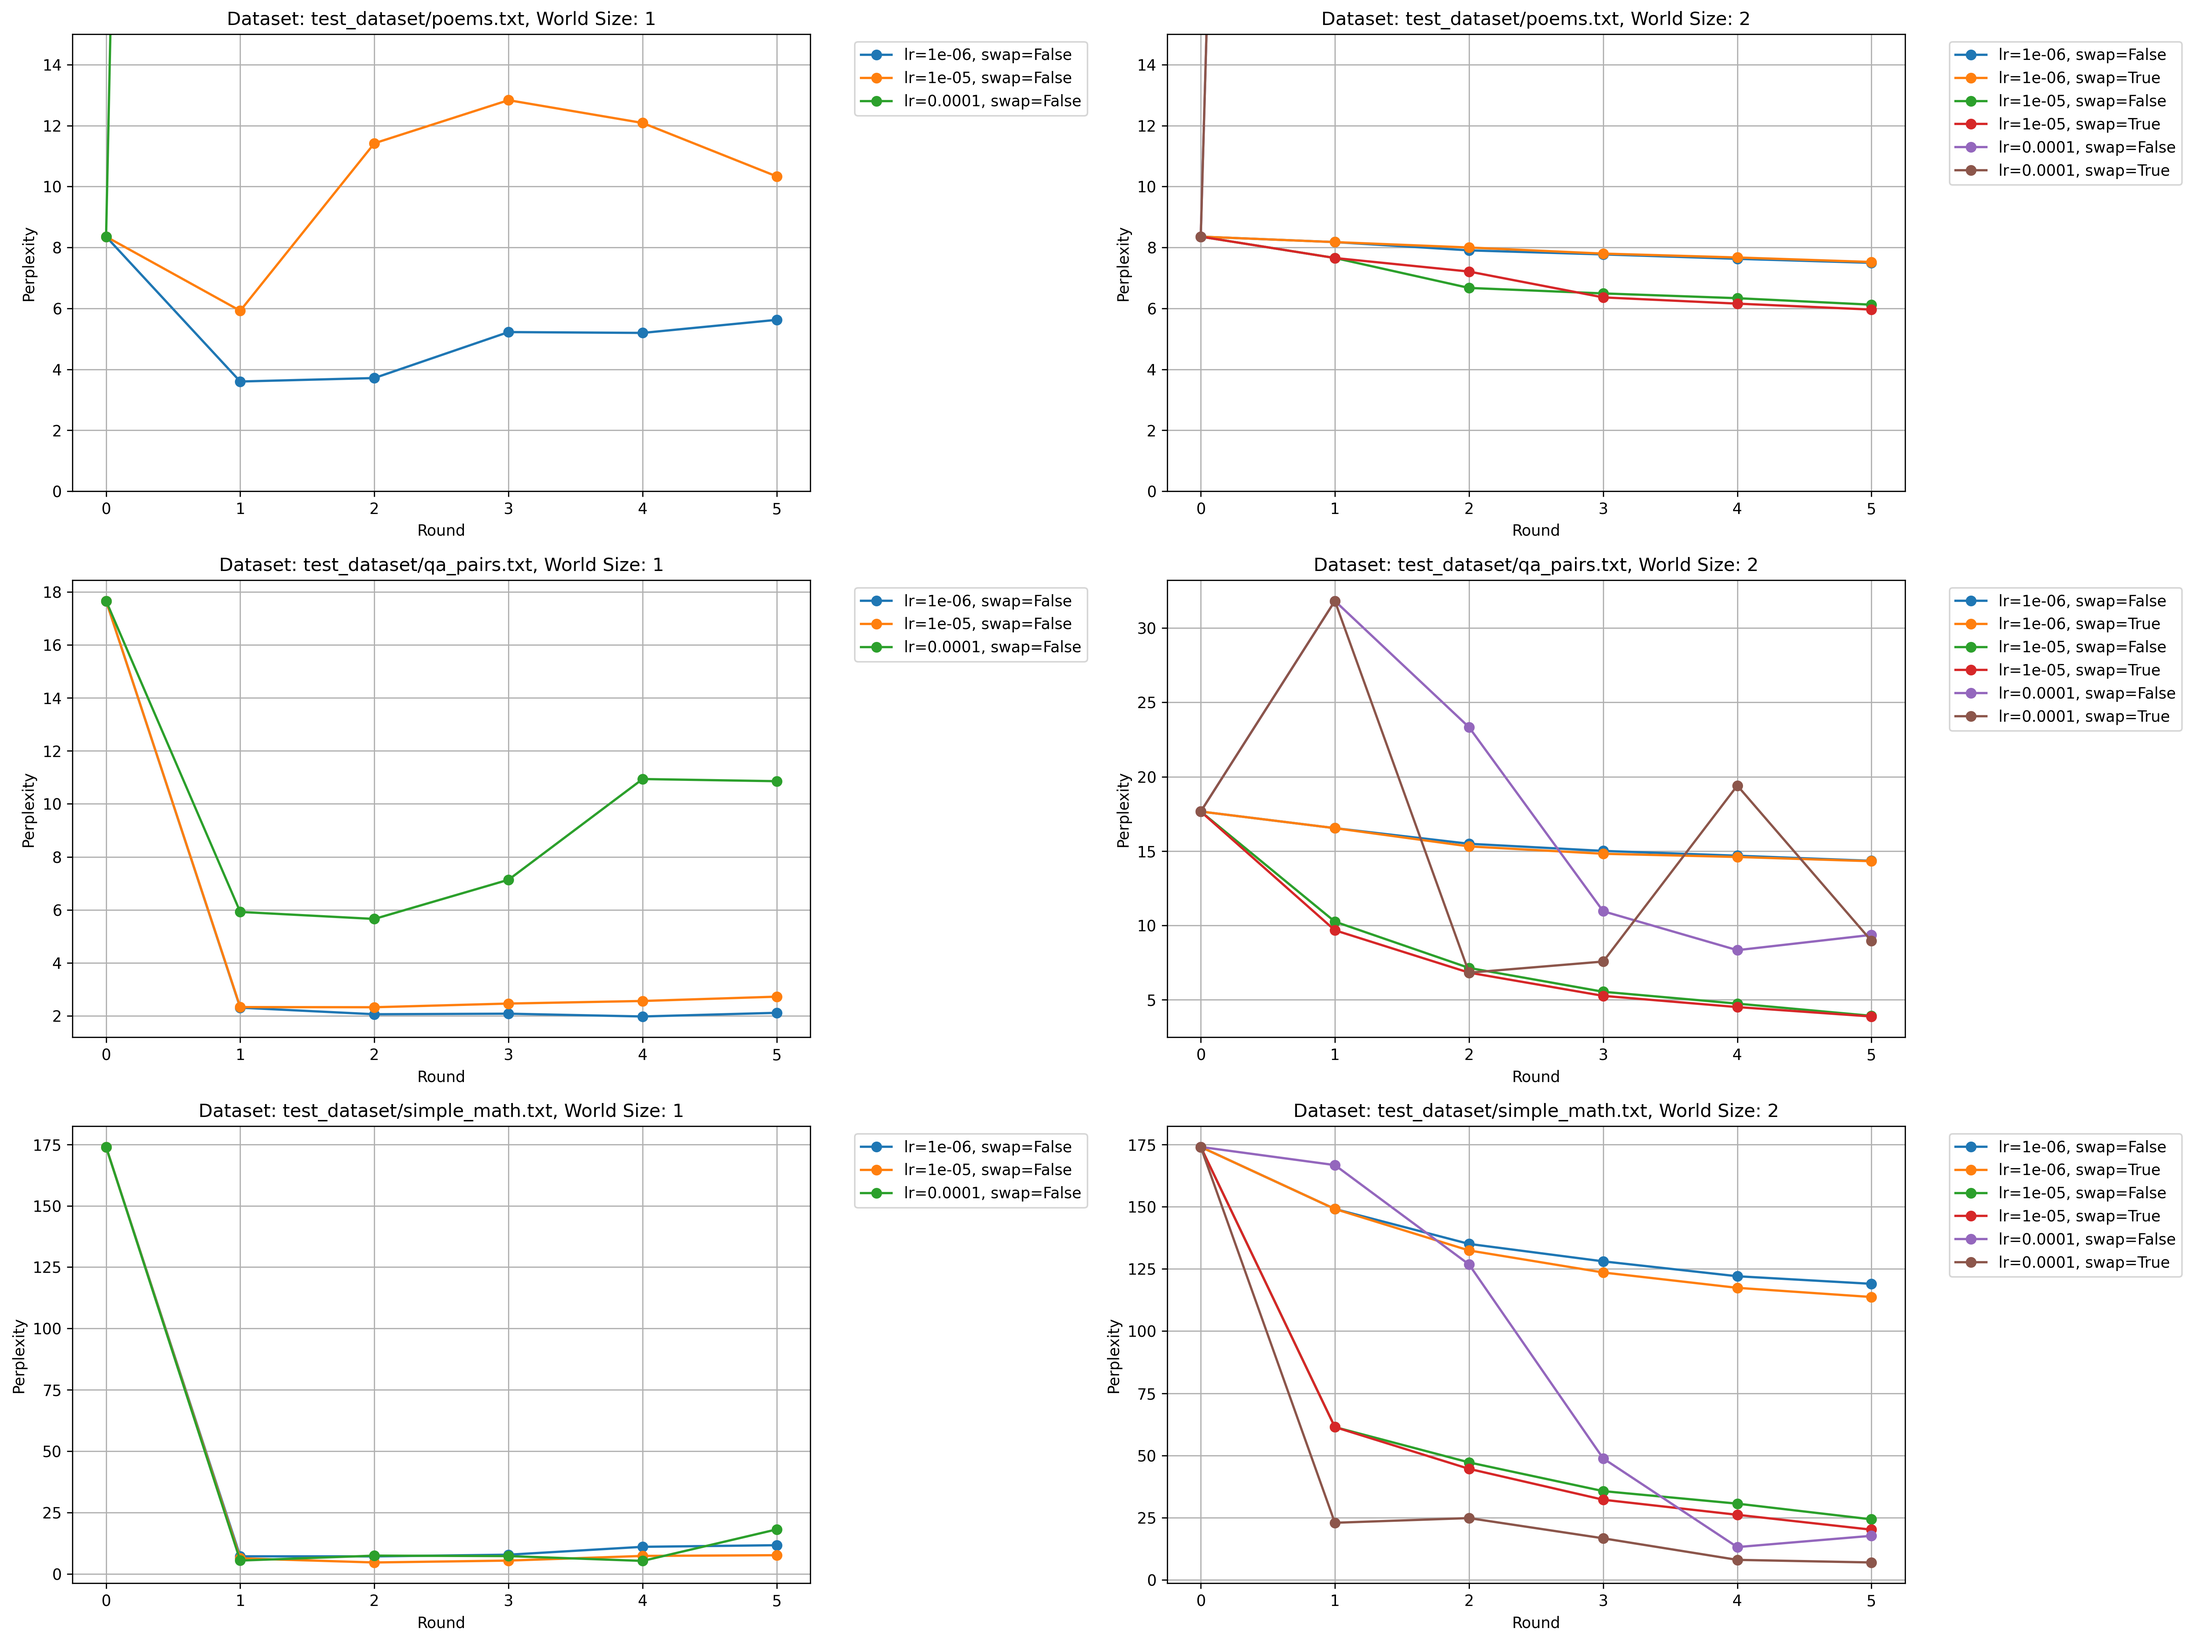
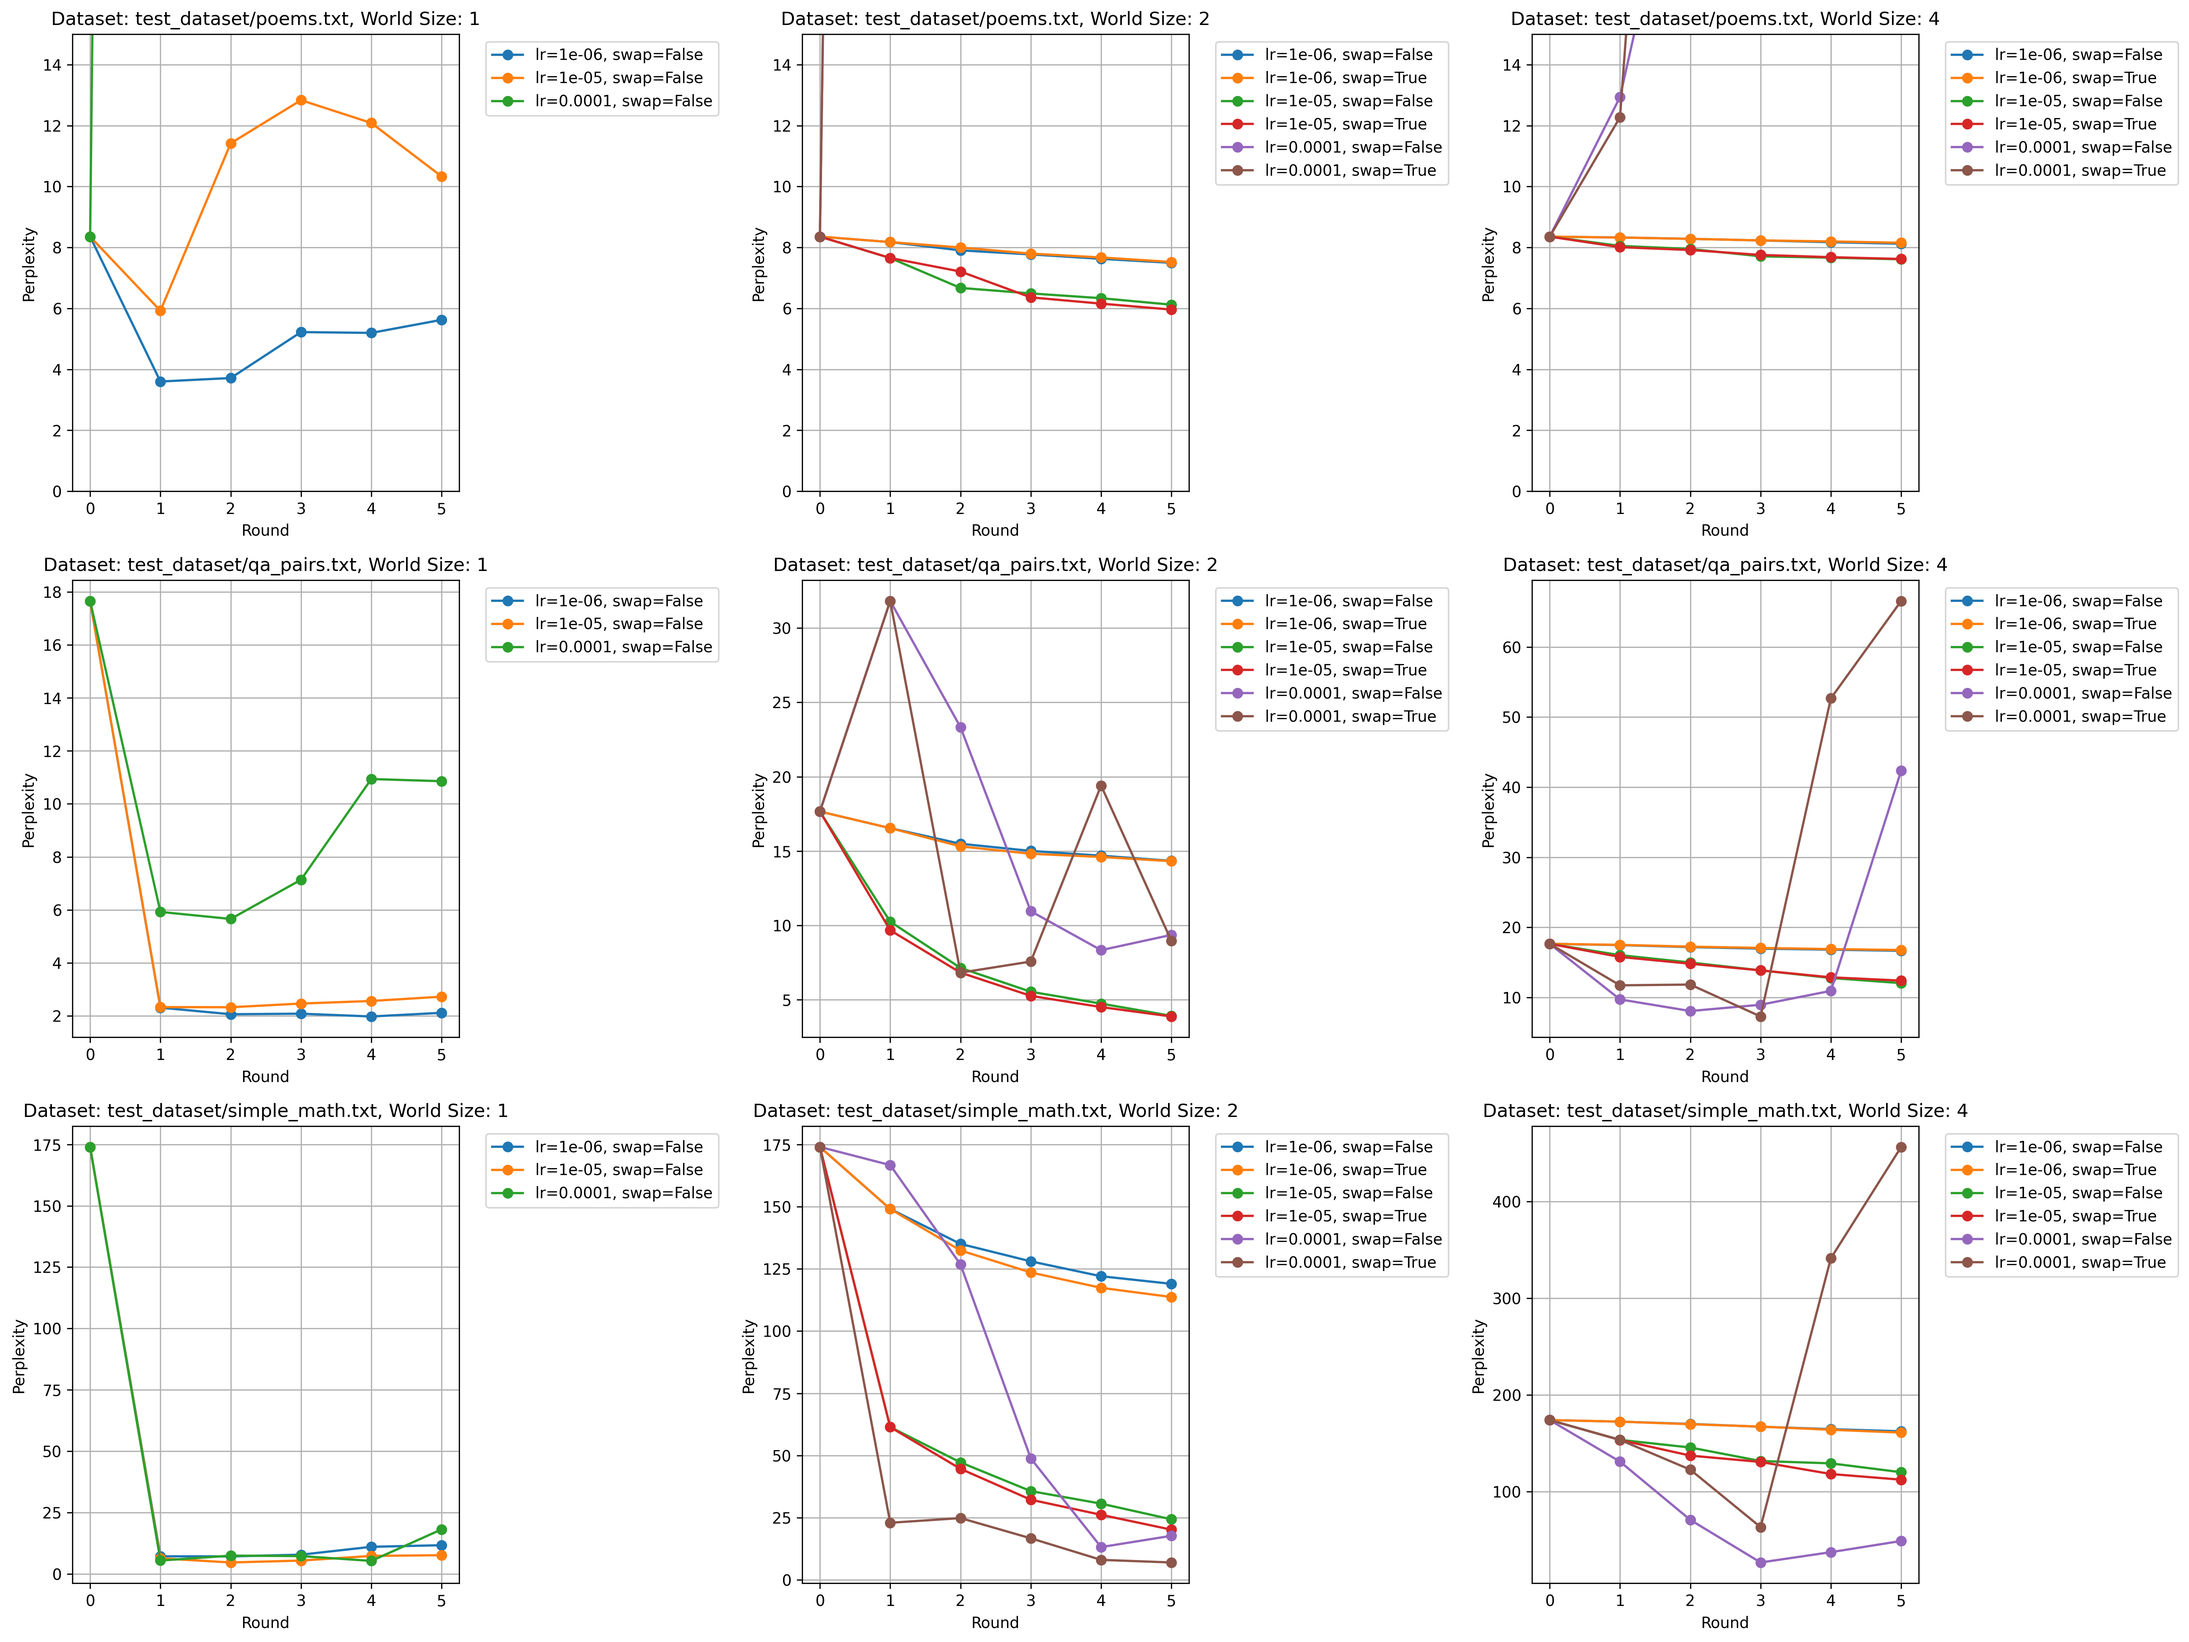
Complete llama 3.2 1B experiments on WS 4

diff --git a/lib/python/examples/llama_3.2_1B/trainer/main.py b/lib/python/examples/llama_3.2_1B/trainer/main.py
@@ -288,7 +288,7 @@ class HorizontalSplitTrainer(Trainer):
         # Auto-detect available GPUs and assign based on rank
         if torch.cuda.is_available():
             num_gpus = torch.cuda.device_count()
-            gpu_id = (self.rank % num_gpus) + 1 # to avoid sharing GPU 0 with aggregator
+            gpu_id = (self.rank + 1) % num_gpus # to avoid sharing GPU 0 with aggregator
             self.device = torch.device(f"cuda:{gpu_id}")
             torch.cuda.set_device(gpu_id)
             logger.info(f"Trainer rank {self.rank} using GPU {gpu_id}")
